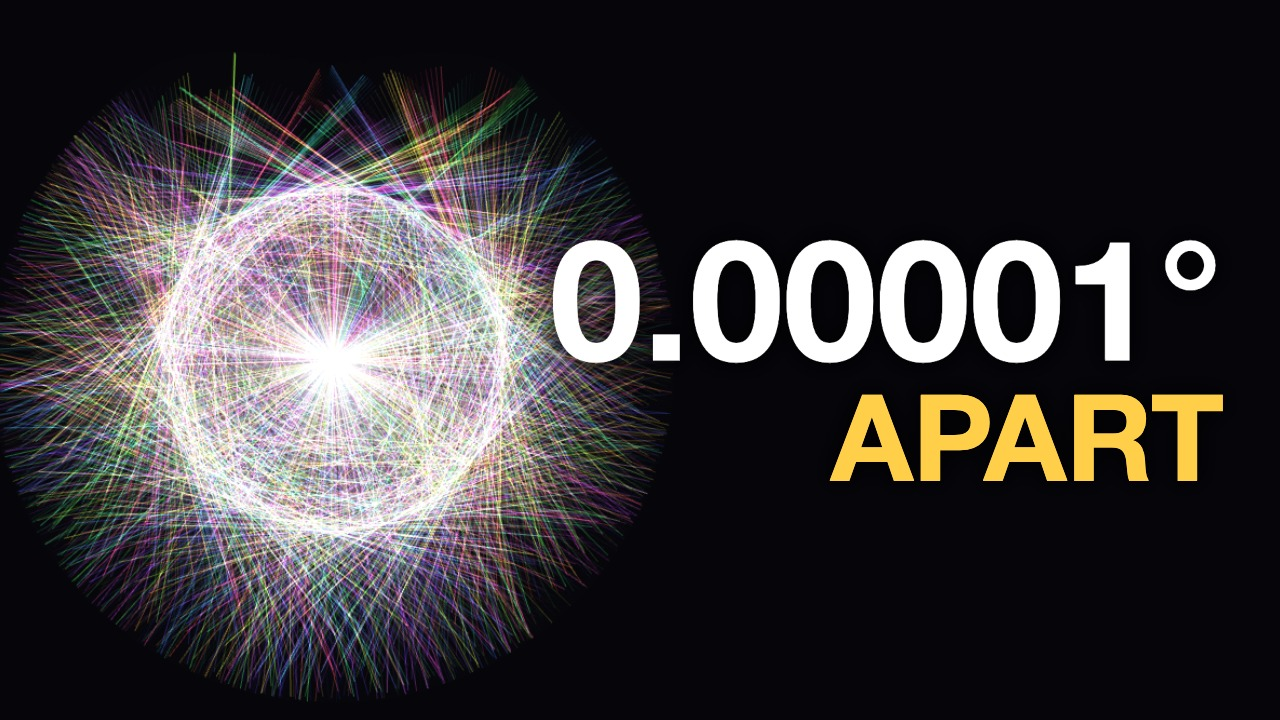
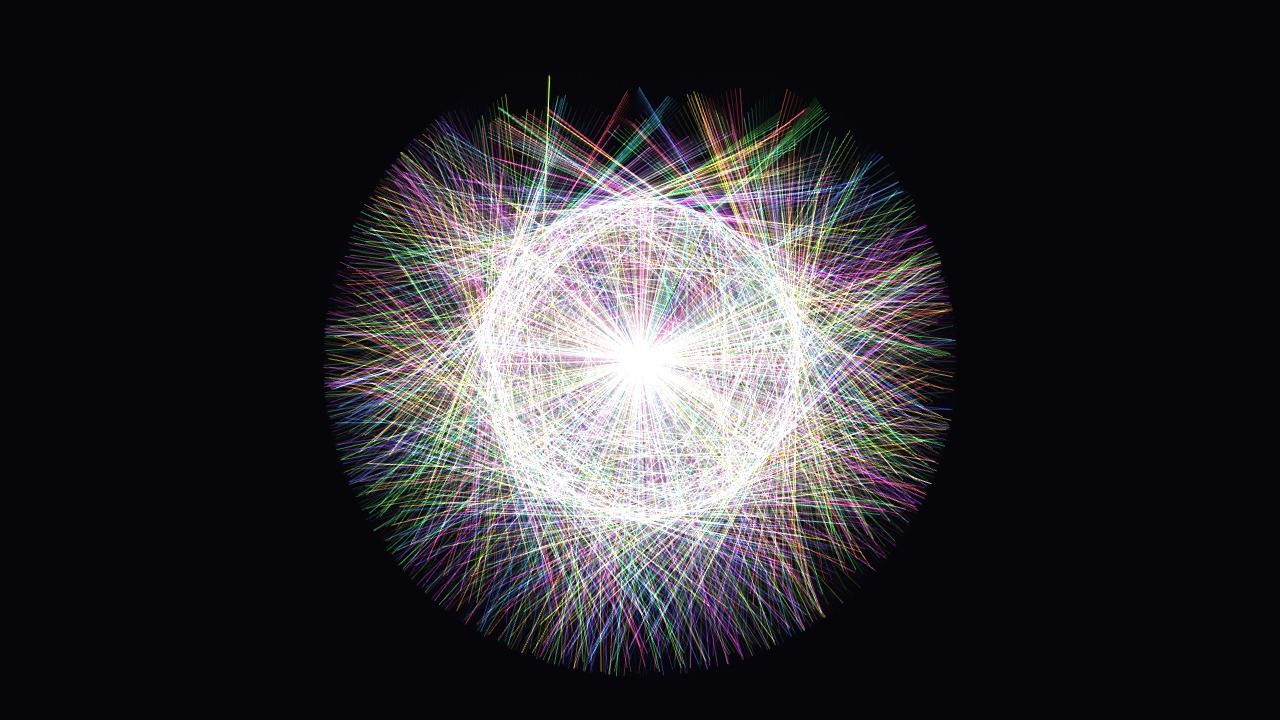
Thumbnails: art only, no text, rendered full-frame

diff --git a/docs/youtube.md b/docs/youtube.md
@@ -7,6 +7,8 @@ site footer already links to the code. If the site moves (e.g. a `hiddenrulesart
 a custom domain), update these links and the on-screen banners together. Chapter times come from the build
 timing; re-check them if an episode is re-rendered.
 
+Thumbnails: art only, **no text**, rendered from the real pieces at 1280×720 (`node tools/thumbnails.mjs`).
+
 ## Channel
 
 **Description (about section):**
@@ -31,7 +33,7 @@ timing; re-check them if an episode is re-rendered.
 
 ## Episode 1: double pendulum
 
-**Thumbnail:** `videos/01-double-pendulum/thumbnail.jpg` (rainbow fan, "0.00001° APART")
+**Thumbnail:** `videos/01-double-pendulum/thumbnail.jpg` (the 1,000-pendulum burst from 3:30, no text)
 
 **Title:** 1,000 Pendulums, 0.00001° Apart. Then Chaos.
 Alternatives: "Why Nobody Can Predict a Double Pendulum" · "1,000 Pendulums Start Together. Seconds Later, Chaos."
@@ -65,7 +67,7 @@ Narration voice generated with ElevenLabs.
 
 ## Episode 2: Lorenz attractor
 
-**Thumbnail:** `videos/02-lorenz/thumbnail.jpg` (butterfly attractor, "ONE ROUNDING ERROR")
+**Thumbnail:** `videos/02-lorenz/thumbnail.jpg` (the butterfly attractor, no text)
 
 **Title:** The Rounding Error That Broke Weather Forecasting
 Alternatives: "A Rounding Error Discovered the Butterfly Effect" · "0.506 vs 0.506127: How Chaos Was Discovered"
